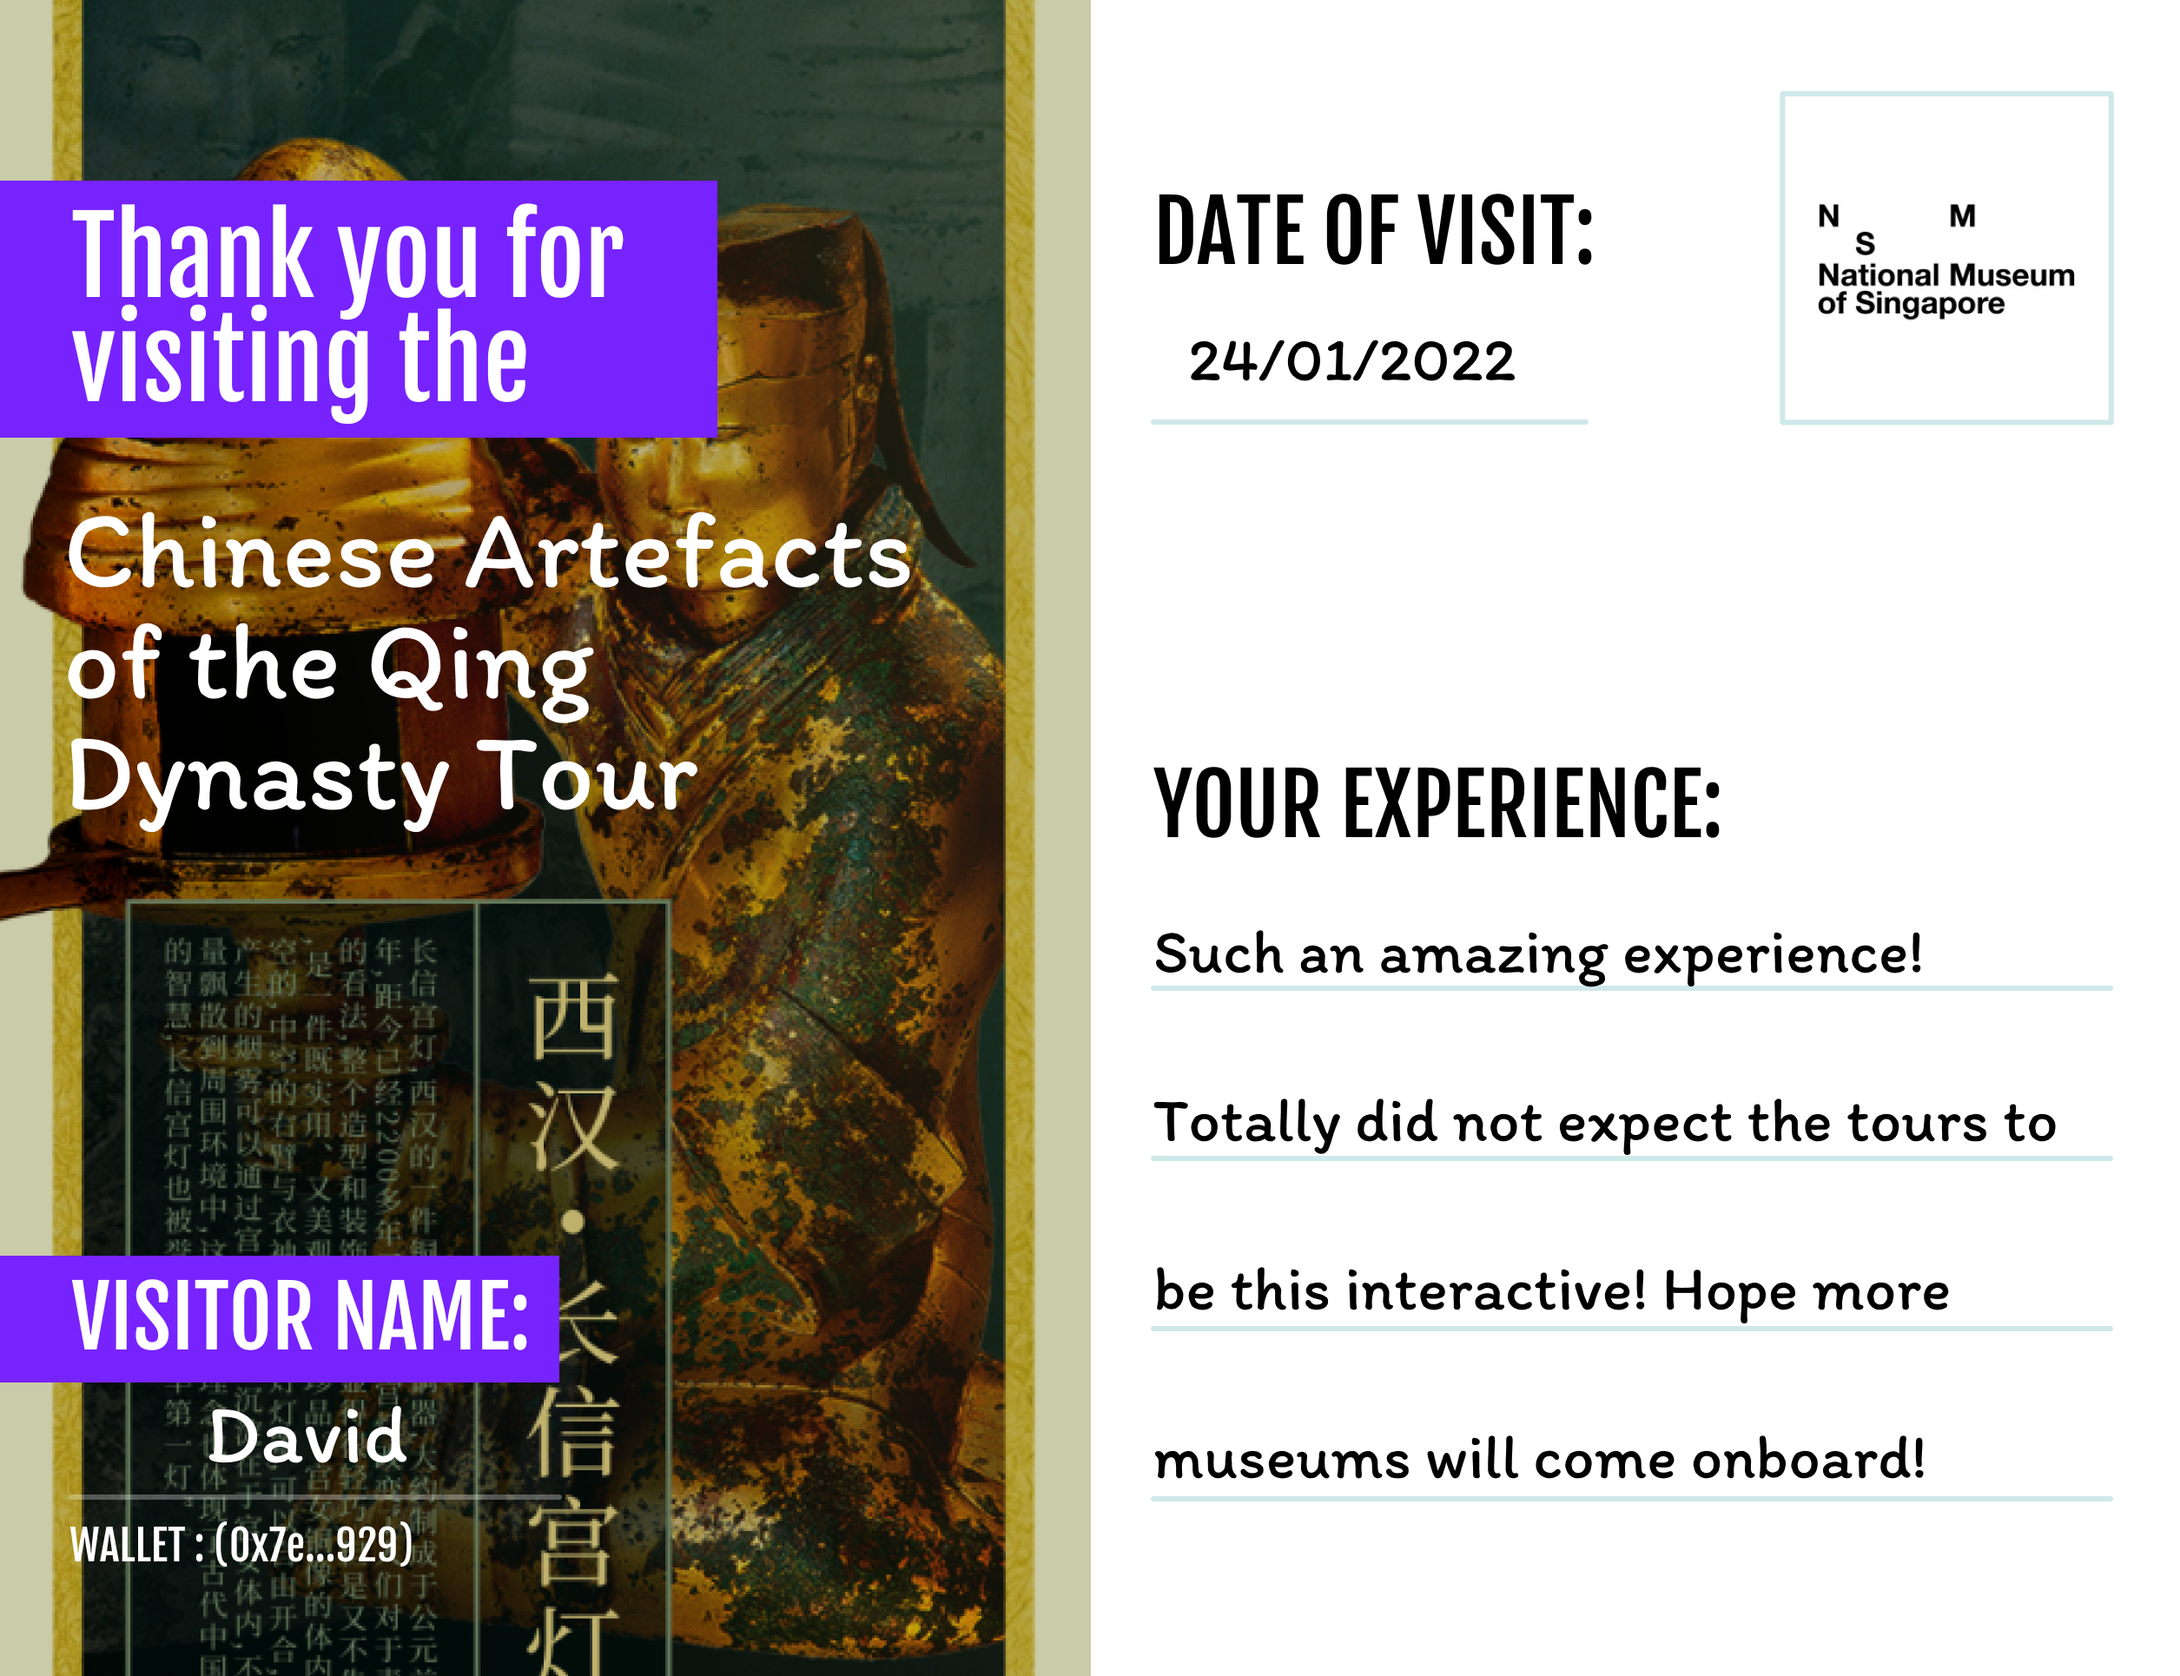
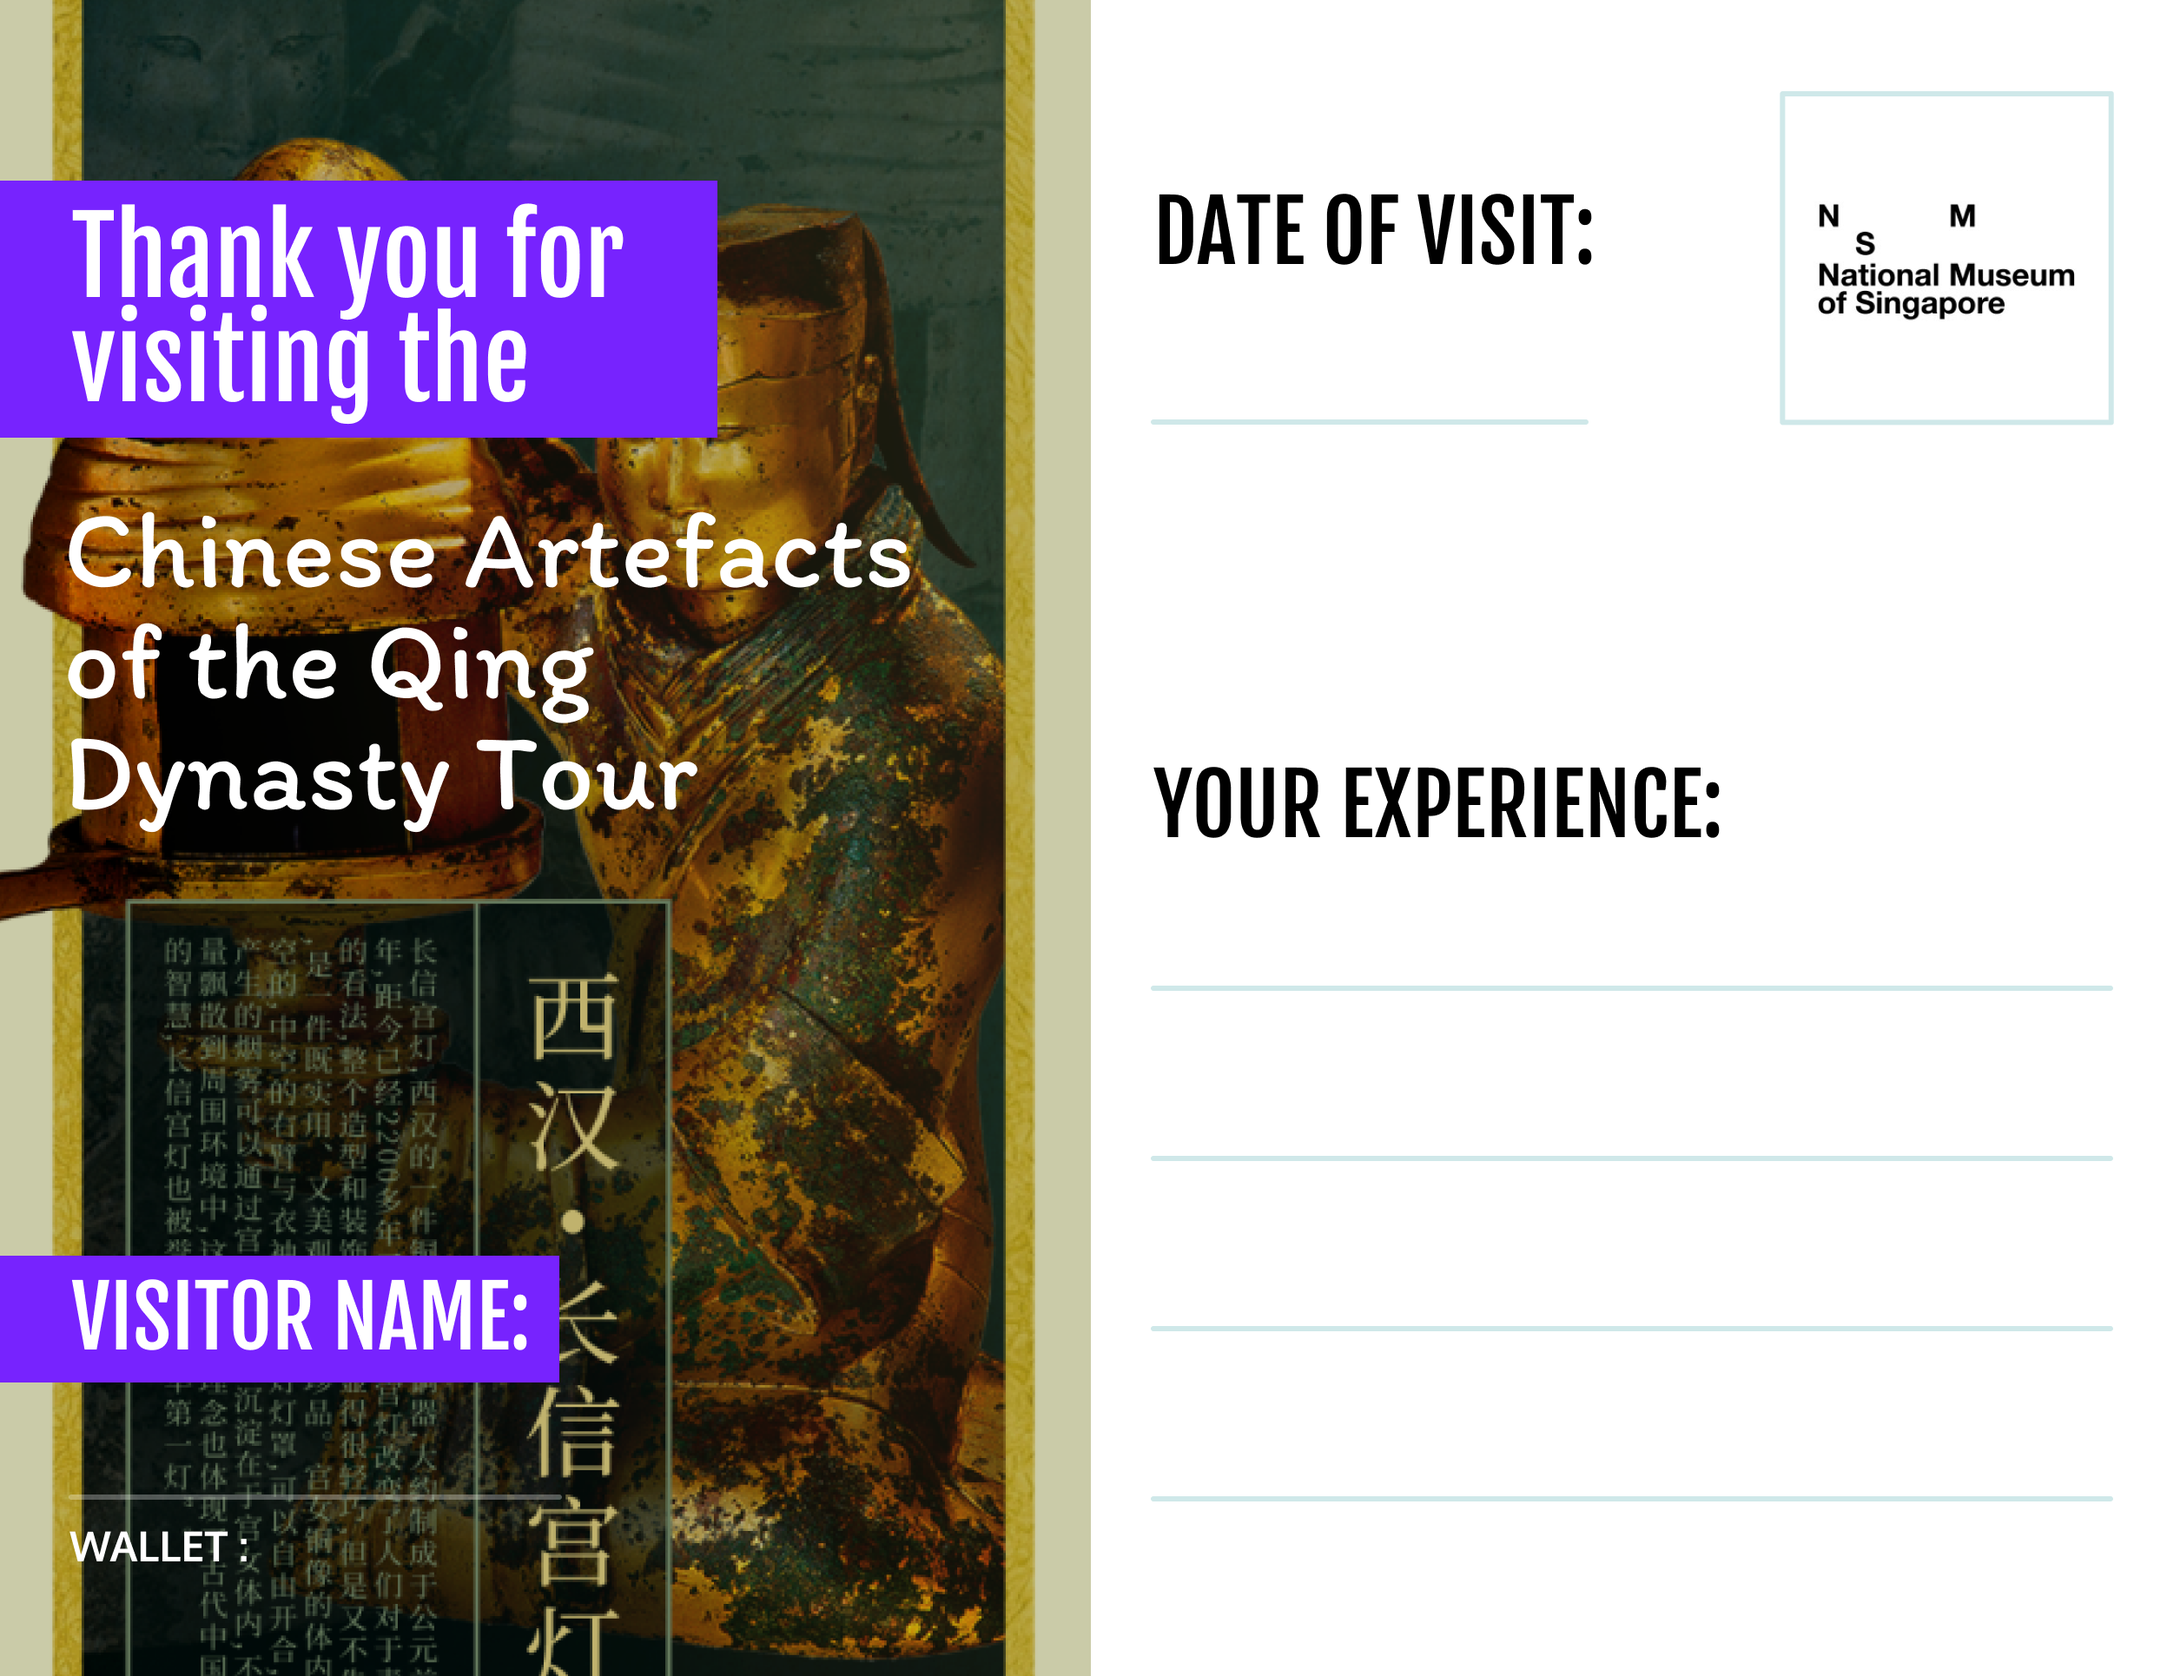
souvenir fixed

diff --git a/pages/api/canvas.js b/pages/api/canvas.js
@@ -3,6 +3,8 @@ import {
 	changeratio,
 	timeConverter,
 	toPercent,
+	wrapText,
+	getShortAccountHash,
 } from "./util.js";
 
 const fillMixedText = (context, args, x, y) => {
@@ -19,143 +21,71 @@ const fillMixedText = (context, args, x, y) => {
 	context.restore();
 };
 
-export const drawText = function (ctx, txt, oldTxt) {
+export const drawText = function (ctx, imgData) {
 	
-	// // normal, italic, bold
-	// // px pt cm in rem em
-	// // any installed or imported font
-	// let fontFamily = 'Inter';
-	// ctx.font = `normal 100px xyz, ${fontFamily}, monospace`;
-	// ctx.fillStyle = 'cornflowerblue';
-	// ctx.strokeStyle = '#bada55';
-	// //textAlign center, left, right, end, start
-	// ctx.textAlign = 'start';
-	// //textBaseline top, hanging, middle, bottom,ideographic, alphabetic
-	// ctx.textBaseline = 'alphabetic';
-	// //direction ltr, rtl, inherit
-	// ctx.direction = 'ltr';
-	
-	// // let txt = document.getElementById('msg').value;
-	
-	// let metrics = ctx.measureText(oldTxt);
-	// let w = metrics.width;
-	// ctx.clearRect(50, 110, w, -50);
-	
-	// if( txt == '' ) {
-	// 	txt = 'Please give me a message.';
-	// }
+	const name = imgData.name;
+	const description = imgData.description;
+	const walletaddress = "0x7eF199087327207034feACd05832E61035FCA929"
 
-	// ctx.strokeText(txt, 50, 100);
-	// oldTxt = txt;
+	var today = new Date();
+	var dd = String(today.getDate()).padStart(2, '0');
+	var mm = String(today.getMonth() + 1).padStart(2, '0'); //January is 0!
+	var yyyy = today.getFullYear();
 	
-	// ctx.fillStyle = '#999';
-	// ctx.font = 'italic 20px Arial';
-	// let m = `Message is ${w}px wide`;
-	// ctx.clearRect(50, 310, 500, -30);
-	// ctx.fillText(m, 50, 300);
+	const date = today = dd + '/' + mm + '/' + yyyy;
+
+	let fontFamily = "Oxygen";
+	let fontSize = changeratio(90);
+	let positionFromLeft = changeratio(350);
+	let positionFromTop = changeratio(1690);
+
+	ctx.textAlign = "center";
+	ctx.font = `bold ${fontSize}px ${fontFamily}, Arial`;
+	ctx.fillStyle = "white";
+	ctx.fillText(
+		`${name}`,
+		`${positionFromLeft}`,
+		`${positionFromTop}`
+	);
+
+	var maxWidth = 1680;
+	var lineHeight = 290;
+	var x = 2000;
+	var y = 1680;
+
+	ctx.textAlign = "start";
+	fontSize = changeratio(70);
+	ctx.font = `bold ${fontSize}px ${fontFamily}, Arial`;
+	ctx.fillStyle = "black";
+
+	wrapText(ctx, description, x, y, maxWidth, lineHeight);
+
+	positionFromLeft = changeratio(1400);
+	positionFromTop = changeratio(440);
+
+	fontSize = changeratio(70);
+	ctx.font = `bold ${fontSize}px ${fontFamily}, Arial`;
+	ctx.fillStyle = "black";
+	ctx.fillText(
+		`${date}`,
+		`${positionFromLeft}`,
+		`${positionFromTop}`
+	);
+
+	positionFromLeft = changeratio(300);
+	positionFromTop = changeratio(1795);
+
+	fontSize = changeratio(45);
+	ctx.font = `bold ${fontSize}px ${fontFamily}, Arial`;
+	ctx.fillStyle = "white";
+	ctx.fillText(
+		`(` + getShortAccountHash(`${walletaddress}` + `)`),
+		`${positionFromLeft}`,
+		`${positionFromTop}`
+	);
 };
 
-	// const nooftrades = imgData.noOfTrades;
-	// const gas = abbreviateNumber(imgData.gasUSD);
-	// const valueoftrades = abbreviateNumber(imgData.value); // 2DP
-	// const favpair = imgData.favPair;
-	// const favpairamt = abbreviateNumber(imgData.favPairValue); // 2DP
-	// const avgtradesize = "$" + abbreviateNumber(imgData.avgTrade); // 2DP
-	// const biggesttradevalue = "$" + abbreviateNumber(imgData.maxTrade); // 2DP
-	// const biggesttradedate = timeConverter(imgData.maxDate); // DATE FORMATTER
-	// const smallesttradevalue = "$" + abbreviateNumber(imgData.minTrade); // 2DP
-	// const smallesttradedate = timeConverter(imgData.minDate); // DATE FORMATTER
-	// let rank;
-	// let avgtradesizepctcomp;
-	// const usertradevolume = imgData.value;
 
-	//from 3 mil wallets for eth
-	// const defi1 = 10.99; // 1 percentile
-	// const defi10 = 66.08; // 10 percentile
-	// const defi20 = 184.3; // 20 percentile
-	// const defi25 = 252.31; // 25 percentile
-	// const defi30 = 379.28; // 30 percentile
-	// const defi40 = 704.01; // 40 percentile
-	// const defi50 = 1248.97; // 50 percentile
-	// const defi60 = 2337.12; // 60 percentile
-	// const defi70 = 4683.66; // 70 percentile
-	// const defi75 = 6817.66; // 75 percentile
-	// const defi80 = 11033.52; // 80 percentile
-	// const defi90 = 38841.95; // 90 percentile
-	// const defi99 = 3661023.91; // 99 percentile
-
-	// for polygon
-	// const defi1 = 0.1; // 1 percentile
-	// const defi10 = 0.2; // 10 percentile
-	// const defi20 = 5.6; // 20 percentile
-	// const defi25 = 8.9; // 25 percentile
-	// const defi30 = 12; // 30 percentile
-	// const defi40 = 31; // 40 percentile
-	// const defi50 = 113; // 50 percentile
-	// const defi60 = 298; // 60 percentile
-	// const defi70 = 769; // 70 percentile
-	// const defi75 = 1424; // 75 percentile
-	// const defi80 = 2079; // 80 percentile
-	// const defi90 = 85765; // 90 percentile
-	// const defi99 = 34072; // 99 percentile
-	// let highlightcolour = "#fb923c";
-
-	// const ranking = [
-	// 	defi99,
-	// 	defi90,
-	// 	defi80,
-	// 	defi70,
-	// 	defi60,
-	// 	defi50,
-	// 	defi40,
-	// 	defi30,
-	// 	defi20,
-	// 	defi10,
-	// 	defi1,
-	// ];
-
-	// let percentile = 99;
-	// for (let i = 0; i < ranking.length; i++) {
-	// 	if (usertradevolume >= parseInt(ranking[i])) {
-	// 		avgtradesizepctcomp = percentile;
-	// 		break;
-	// 	}
-
-	// 	if (i == 0 || i == 9) {
-	// 		percentile -= 9;
-	// 	} else {
-	// 		percentile -= 10;
-	// 	}
-	// }
-
-	// if (usertradevolume >= 2000000) {
-	// 	rank = "DEFI GOD";
-	// } else if (usertradevolume >= defi75) {
-	// 	rank = "DEFI GOAT";
-	// } else if (usertradevolume >= defi50) {
-	// 	rank = "DEFI PUNK";
-	// } else if (usertradevolume >= defi25) {
-	// 	rank = "DEFI DOGE";
-	// } else if (usertradevolume >= defi1) {
-	// 	rank = "DEFI BABY";
-	// } else if (usertradevolume < defi1) {
-	// 	rank = "DEFI NOOB";
-	// 	avgtradesizepctcomp = 0;
-	// }
-
-	// let fontFamily = "Inter";
-
-	// let fontSize = changeratio(90);
-	// let positionFromLeft = changeratio(85);
-	// let positionFromTop = changeratio(477.5);
-
-	// ctx.font = `bold ${fontSize}px ${fontFamily}, Arial`;
-	// ctx.fillStyle = "white";
-	// ctx.fillText(
-	// 	`YOUR DEX JOURNEY `,
-	// 	`${positionFromLeft}`,
-	// 	`${positionFromTop}`
-	// );
 
 	// positionFromTop = changeratio(590);
 

diff --git a/pages/api/util.js b/pages/api/util.js
@@ -1,5 +1,13 @@
 import { ethers } from "ethers";
 
+export const login = async ({ setAddr }) => {
+	const provider = new ethers.providers.Web3Provider(window.ethereum);
+	await provider.send("eth_requestAccounts", []);
+	const signer = provider.getSigner();
+	const walletAddress = await signer.getAddress();
+	setAddr(walletAddress);
+};
+
 export function getShortAccountHash(account) {
 	const accountHash = String(account);
 	if (accountHash) {
@@ -65,3 +73,23 @@ export function timeConverter(UNIX_timestamp) {
 	var display = date + " " + month;
 	return display;
 }
+
+export function wrapText(context, text, x, y, maxWidth, lineHeight) {
+	var words = text.split(' ');
+	var line = '';
+
+	for(var n = 0; n < words.length; n++) {
+	  var testLine = line + words[n] + ' ';
+	  var metrics = context.measureText(testLine);
+	  var testWidth = metrics.width;
+	  if (testWidth > maxWidth && n > 0) {
+		context.fillText(line, x, y);
+		line = words[n] + ' ';
+		y += lineHeight;
+	  }
+	  else {
+		line = testLine;
+	  }
+	}
+	context.fillText(line, x, y);
+  }

diff --git a/components/Canvas.js b/components/Canvas.js
@@ -28,8 +28,7 @@ const Canvas = (props) => {
           canvas.height = h;
           context.drawImage(imgObj, 0, 0, w, h);
 
-          drawText(context);
-          // document.getElementById('msg').addEventListener('input', drawText(context));
+          drawText(context, imgData);
         };
         imgObj.src = src;
       });

diff --git a/pages/museum/singapore/souvenir.js b/pages/museum/singapore/souvenir.js
@@ -114,7 +114,7 @@ export default function Souvenir() {
             <Canvas
               id="postcard"
               className="flex mx-auto w-[80vw] rounded-lg"
-              imgData={imgData}
+              imgdata={imgData}
             />
             <Button colorScheme="blue" w="50%">
               Download
